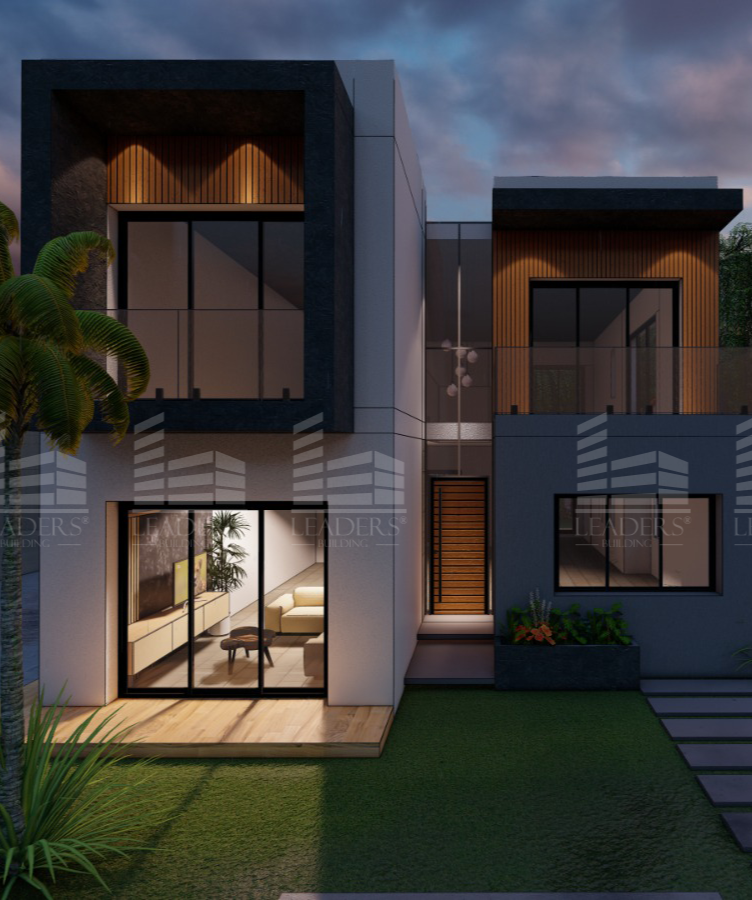
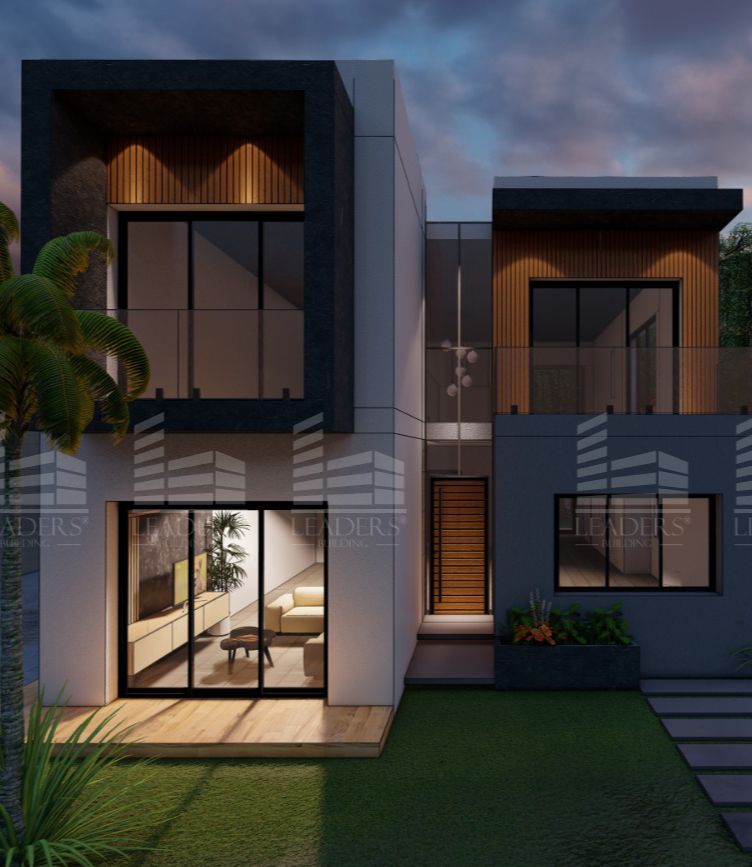
changes

diff --git a/projets-construction-batiments.html b/projets-construction-batiments.html
@@ -305,7 +305,7 @@
                                     <div class="cap-inner">
                                         <div class="cat"><span>PROJET N°27</span></div>
                                         <div class="title">
-                                            <h5><a href="projet27.html">Projet 27</a></h5>
+                                            <h5><a href="projet27.html">Villa de maître - Hammamet</a></h5>
                                         </div>
                                     </div>
                                 </div>
